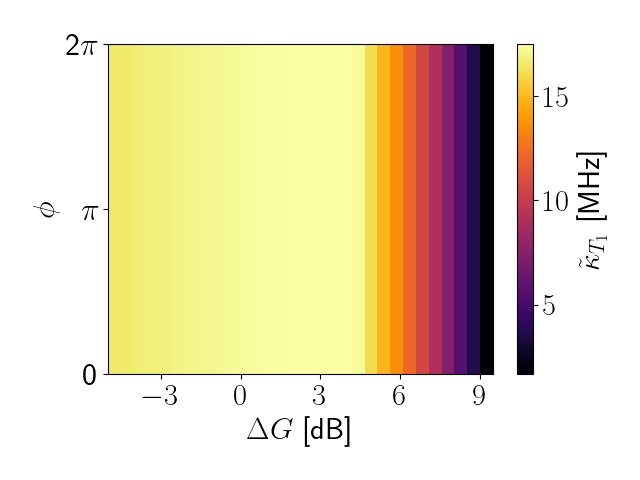
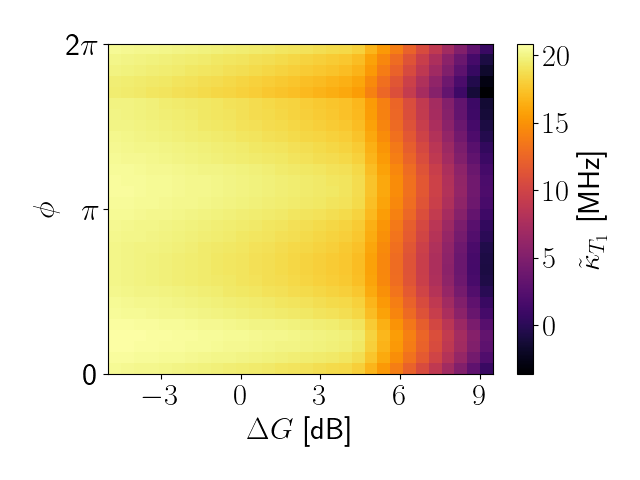
continuity of the amplification function

diff --git a/numerics_including_reflections/stability_phase_diagram.py b/numerics_including_reflections/stability_phase_diagram.py
@@ -97,10 +97,10 @@ a_2, b_2, c_2, flat_line_value_2, x0_2 =  9.2448, 0.008638, 0.0, 8.2716171, 0.00
 a_r, b_r, c_r, flat_line_r, x0_r = 0.3554, 0.00634, 0.73626, 0.4854, 0.0007981
 
 def piece_wise_amp_function(x, a, b, c, flat_line_value, x0):
-    return np.where(x <= x0, flat_line_value, model_function(x, a, b, c))
+    return np.where(x <= x0 + 0.0002, flat_line_value, model_function(x, a, b, c))
 
 def piece_wise_amp_reflection(x_r, a_r, b_r, c_r, flat_line_r, x0_r):
-    return np.where(x_r <= x0_r, flat_line_r, model_function_reflection(x_r, a_r, b_r, c_r))
+    return np.where(x_r <= x0_r + 0.002, flat_line_r, model_function_reflection(x_r, a_r, b_r, c_r))
 
 def model_function_reflection_ps_da(x, slope, intercept):
     return slope * x + intercept
@@ -146,6 +146,8 @@ kappa_ts2_dict = defaultdict(list)
 
 Jeff_12_dict = defaultdict(list)
 Jeff_21_dict = defaultdict(list)
+N1_dict = defaultdict(list)
+N2_dict = defaultdict(list)
 
 def func_real_no_drive(alpha, phase, attenuation):
 
@@ -186,6 +188,7 @@ def func_real_no_drive(alpha, phase, attenuation):
         kappa_diag_1 = kappa_0_1 + drive_kappa + kappa_c - (nu_r1 + nu_ps)*kappa_c
         kappa_diag_2 = kappa_0_2 + readout_kappa + kappa_c - (nu_r2 + nu_da)*kappa_c
 
+    print('Photon Numbers:', N1_watts, N2_watts)
     print('\n', kappa_diag_1/1e6, kappa_diag_2/1e6, ', gain: ', query_gain_value, ', nu_da: ', nu_da, ', nu_r1: ', nu_r1, ', nu_r2: ', nu_r2, ', nu_ps: ', nu_ps)
 
     kappa_ts_dict[(attenuation, phase)].append(kappa_diag_1)
@@ -199,6 +202,10 @@ def func_real_no_drive(alpha, phase, attenuation):
     
     Jeff_12_dict[(attenuation, phase)].append(nu_G12*kappa_c)
     Jeff_21_dict[(attenuation, phase)].append(nu_G21*kappa_c)
+
+    Jeff_21_dict[(attenuation, phase)].append(nu_G21*kappa_c)
+    N1_dict[(attenuation, phase)].append(N1_watts)
+    N2_dict[(attenuation, phase)].append(N2_watts)
     #################################################################################################
 
     return [d_alpha1.real, d_alpha1.imag, d_alpha2.real, d_alpha2.imag]
@@ -467,7 +474,6 @@ plt.tight_layout()
 plt.savefig(f'{folder_plots}/J_vs_deltaG.png')
 plt.close()
 
-
 #### Single trace for J as a function of Delta G
 phase_index = 0  # you can change this index to select a different phase
 selected_phase = phases[phase_index]
@@ -488,4 +494,72 @@ plt.axvline(4.52, ls='--', color='k')
 ax.xaxis.set_major_locator(plt.MaxNLocator(5))
 plt.tight_layout()
 plt.savefig(f'{folder_plots}/Jk_c_vs_deltaG.png')
+plt.close()
+
+net_gains = sorted(max(attenuations) - att for att in attenuations)
+
+# Prepare the data grids
+N1_grid = np.zeros((len(phases), len(net_gains)))
+N2_grid = np.zeros((len(phases), len(net_gains)))
+N_avg_grid = np.zeros((len(phases), len(net_gains)))
+
+for i, phase in enumerate(phases):
+    for j, attenuation in enumerate(attenuations):
+        net_gain_index = net_gains.index(max(attenuations) - attenuation)
+        N1_avg = np.mean(N1_dict[(attenuation, phase)])
+        N2_avg = np.mean(N2_dict[(attenuation, phase)])
+        N_avg = np.mean([N1_avg, N2_avg])
+
+        N1_grid[i, net_gain_index] = N1_avg
+        N2_grid[i, net_gain_index] = N2_avg
+        N_avg_grid[i, net_gain_index] = N_avg
+
+net_gains = calculate_net_gain(np.array(attenuation_values))
+
+# Plotting Average N1
+fig, ax = plt.subplots()
+c = ax.imshow(N1_grid, aspect='auto', origin='lower', 
+              extent=[net_gains[0], net_gains[-1], phases[0], phases[-1]],
+              interpolation='nearest', cmap='inferno')
+
+ax.set_xlabel(r'$\Delta G$ [dB]')
+ax.set_ylabel(r'$\phi$')
+set_yaxis_ticks(ax)
+cbar = fig.colorbar(c, ax=ax)
+cbar.set_label(r'$N_1$')
+ax.xaxis.set_major_locator(plt.MaxNLocator(5))
+plt.tight_layout()
+plt.savefig(f'{folder_plots}/N1_colormap.png')
+plt.close()
+
+# Plotting Average N2
+fig, ax = plt.subplots()
+c = ax.imshow(N2_grid, aspect='auto', origin='lower', 
+              extent=[net_gains[0], net_gains[-1], phases[0], phases[-1]],
+              interpolation='nearest', cmap='inferno')
+
+ax.set_xlabel(r'$\Delta G$ [dB]')
+ax.set_ylabel(r'$\phi$')
+set_yaxis_ticks(ax)
+cbar = fig.colorbar(c, ax=ax)
+cbar.set_label(r'$N_2$')
+ax.xaxis.set_major_locator(plt.MaxNLocator(5))
+plt.tight_layout()
+plt.savefig(f'{folder_plots}/N2_colormap.png')
+plt.close()
+
+# Plotting Average N2
+fig, ax = plt.subplots()
+c = ax.imshow(N_avg_grid, aspect='auto', origin='lower', 
+              extent=[net_gains[0], net_gains[-1], phases[0], phases[-1]],
+              interpolation='nearest', cmap='inferno')
+
+ax.set_xlabel(r'$\Delta G$ [dB]')
+ax.set_ylabel(r'$\phi$')
+set_yaxis_ticks(ax)
+cbar = fig.colorbar(c, ax=ax)
+cbar.set_label(r'$N_avg$')
+ax.xaxis.set_major_locator(plt.MaxNLocator(5))
+plt.tight_layout()
+plt.savefig(f'{folder_plots}/N_avg_colormap.png')
 plt.close()

diff --git a/numerics_including_reflections/get_transmission_numerical_data.py b/numerics_including_reflections/get_transmission_numerical_data.py
@@ -108,10 +108,10 @@ a_2, b_2, c_2, flat_line_value_2, x0_2 =  9.2448, 0.008638, 0.0, 8.2716171, 0.00
 a_r, b_r, c_r, flat_line_r, x0_r = 0.3554, 0.00634, 0.73626, 0.4854, 0.0007981
 
 def piece_wise_amp_function(x, a, b, c, flat_line_value, x0):
-    return np.where(x <= x0, flat_line_value, model_function(x, a, b, c))
+    return np.where(x <= x0 + 0.0002, flat_line_value, model_function(x, a, b, c))
 
 def piece_wise_amp_reflection(x_r, a_r, b_r, c_r, flat_line_r, x0_r):
-    return np.where(x_r <= x0_r, flat_line_r, model_function_reflection(x_r, a_r, b_r, c_r))
+    return np.where(x_r <= x0_r + 0.002, flat_line_r, model_function_reflection(x_r, a_r, b_r, c_r))
 
 def dBm_to_dB(S21_dBm, input_power_dBm=-10):
     relative_power_dBm = S21_dBm
